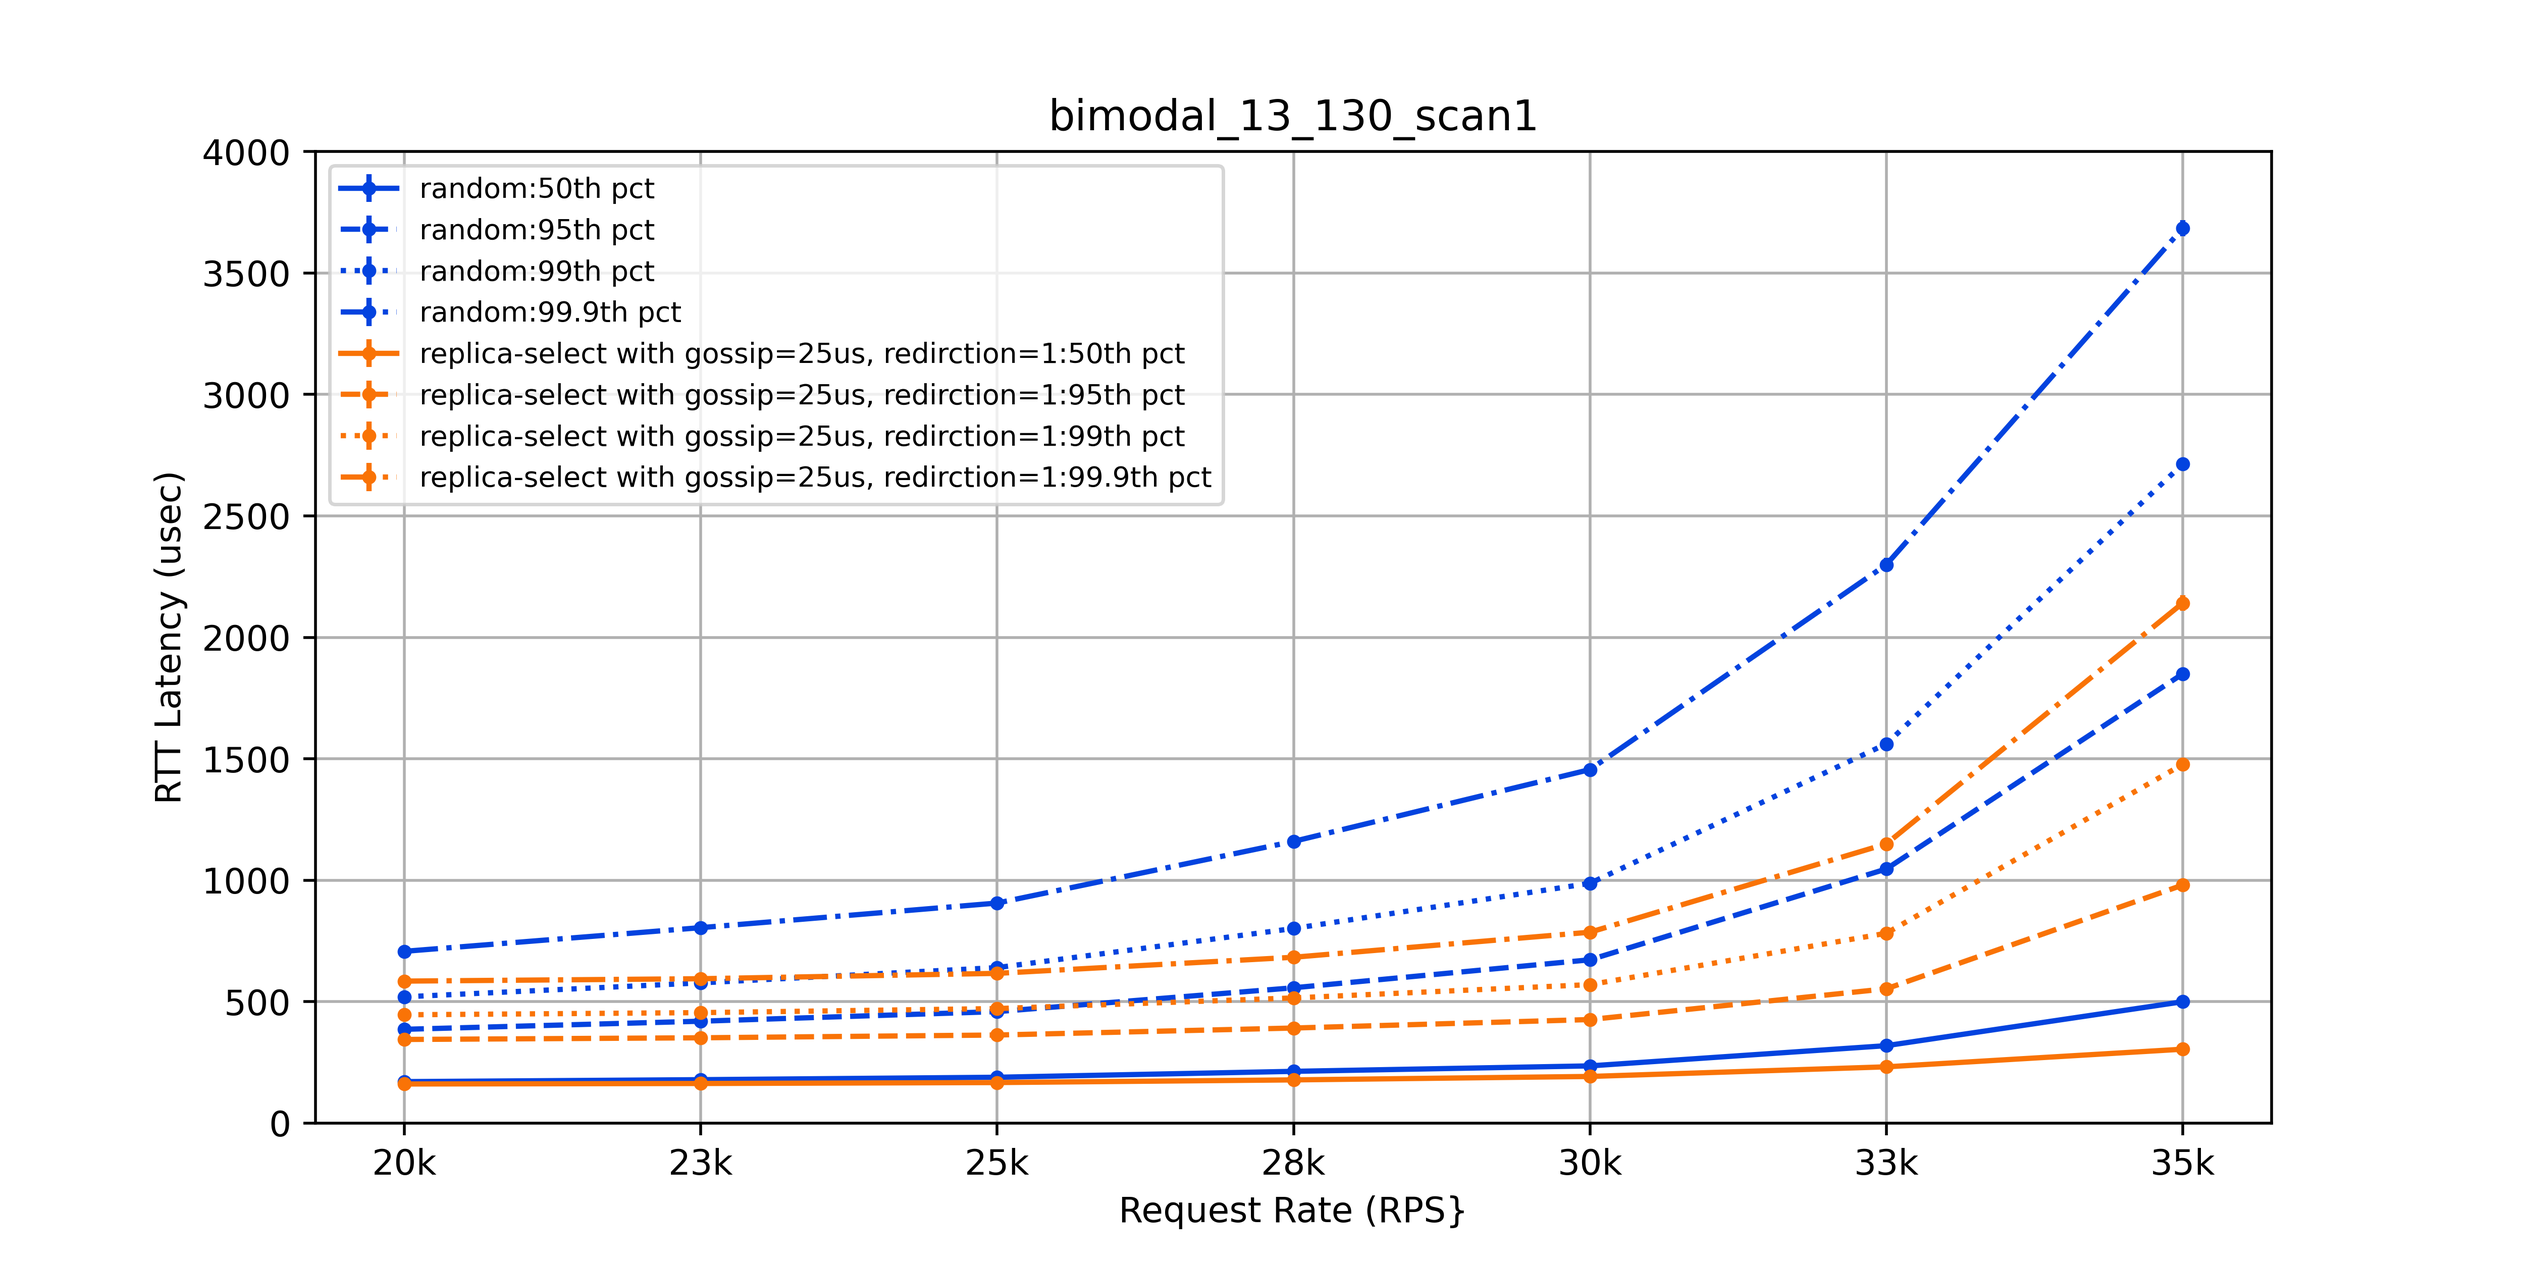
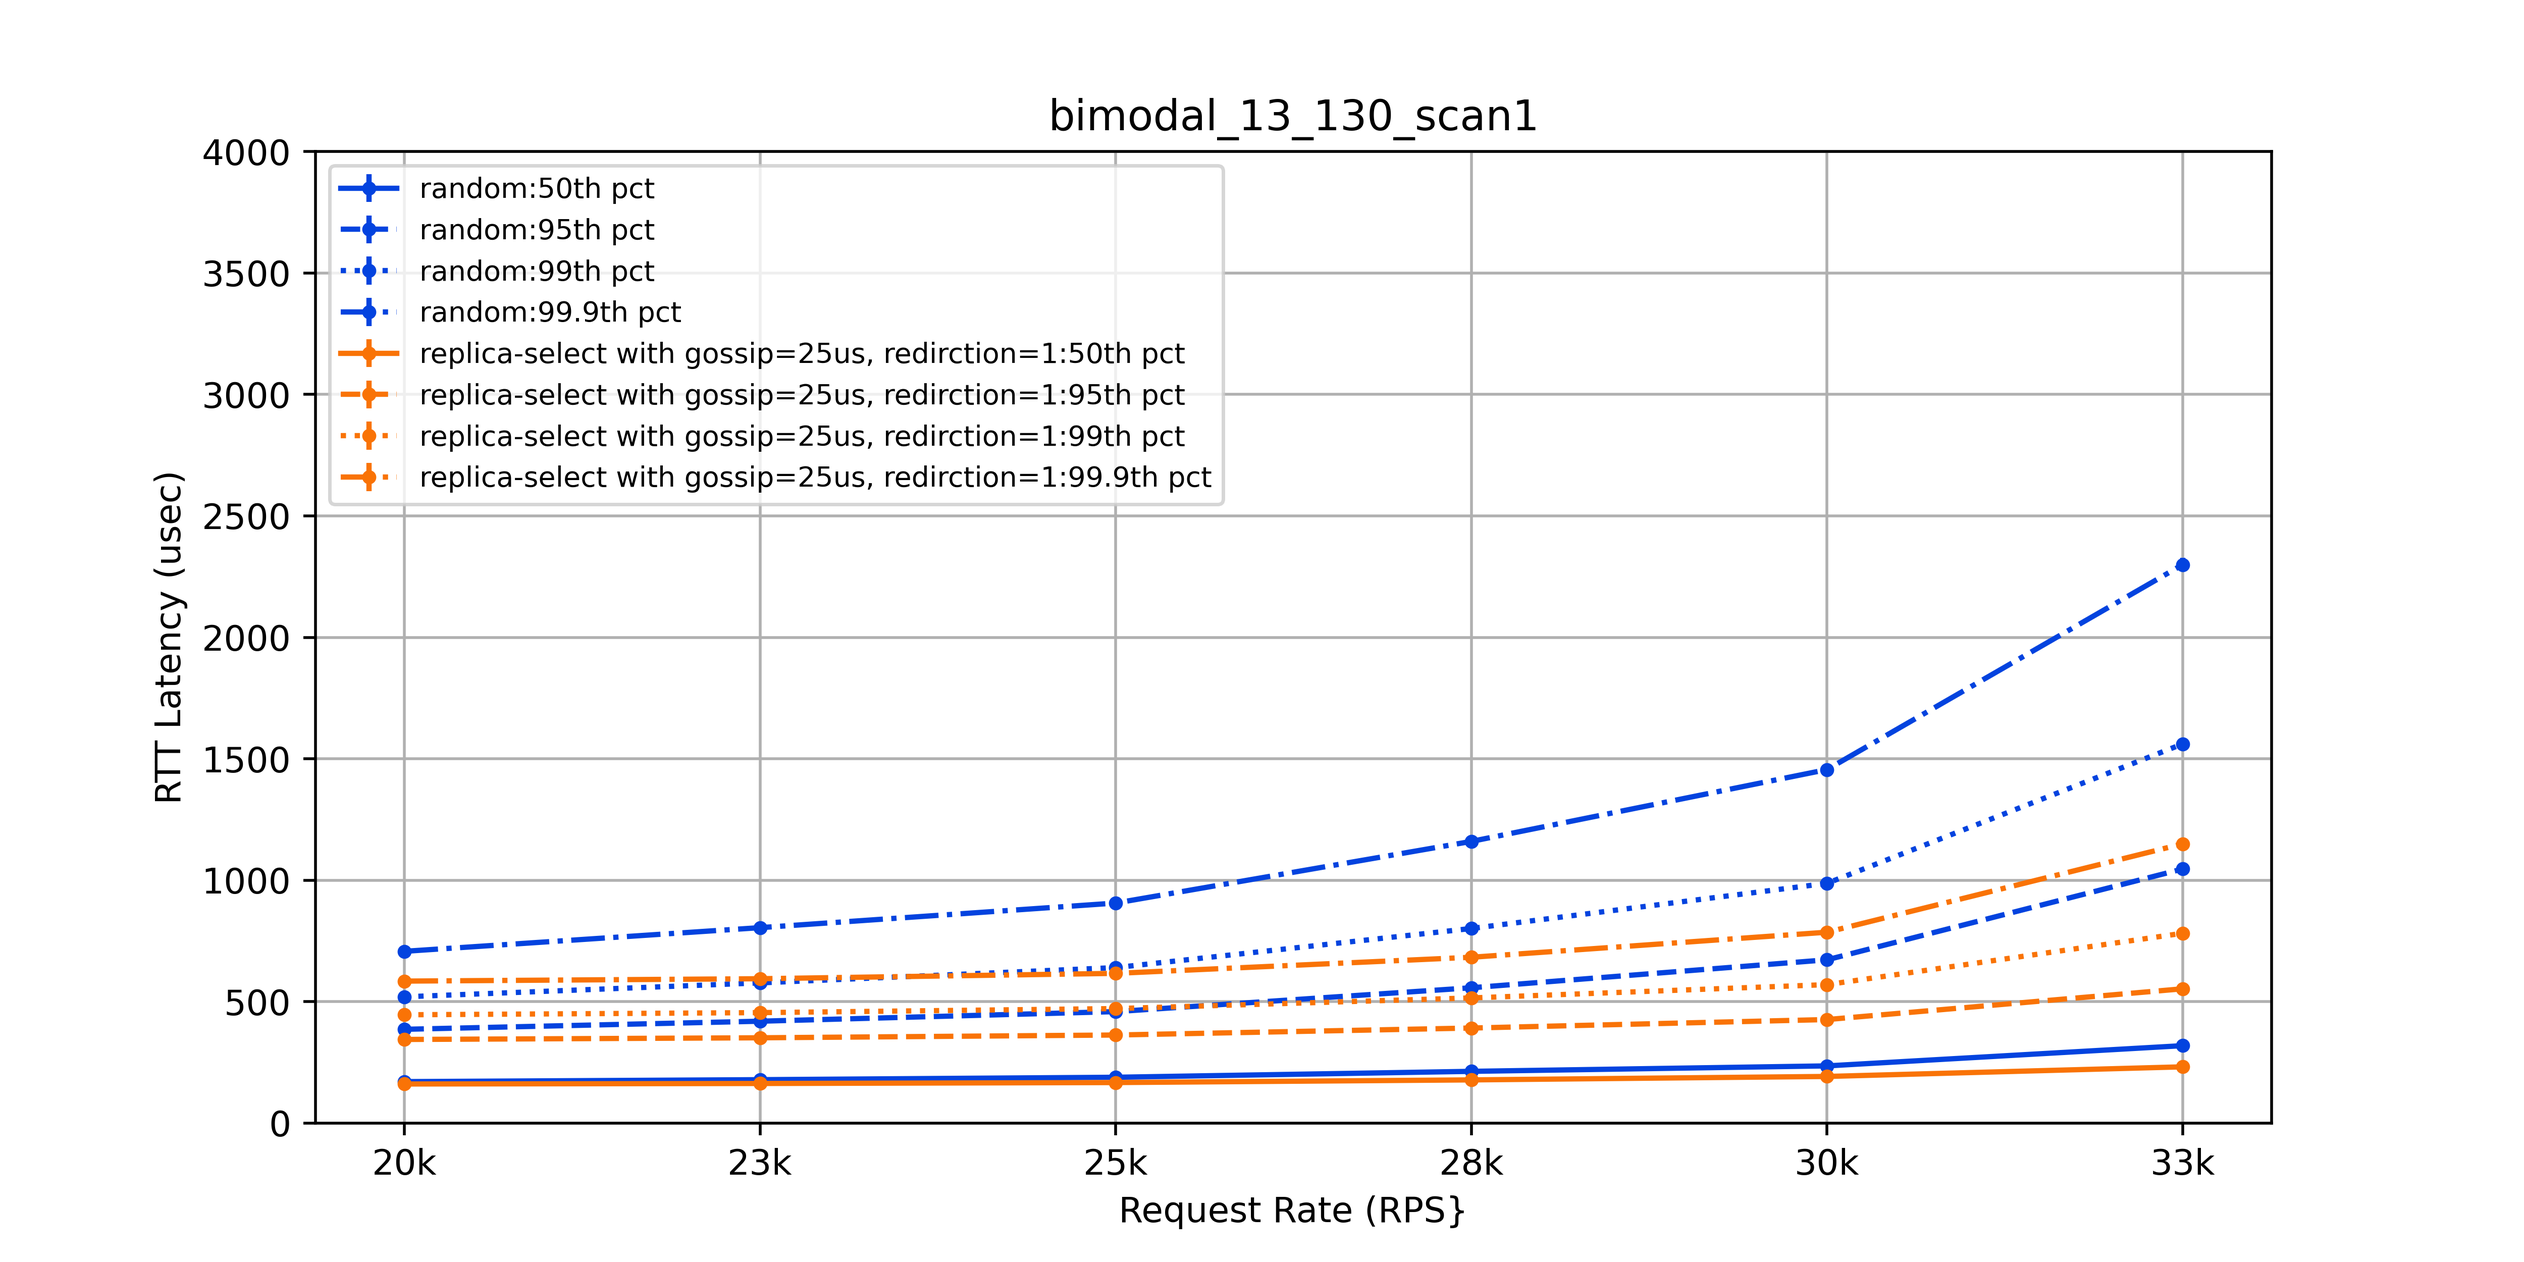
plots and plotting scripts updates

diff --git a/plotting/plot_rates_multirun.py b/plotting/plot_rates_multirun.py
@@ -28,9 +28,15 @@ for root, subdirs, files in os.walk(working_dir):
 
 #rate = title_filter1
 client_tick = ["c0", "c1" , "c2"]
-method_tick  = [title_filter2+"_randonly", title_filter2+"_randselect"]
-method_array = ["random", "replica-select with gossip=25us, redirction=1"]
-run_tick=["0", "1", "2", "3", "4", "5", "6", "7", "8", "9"]
+#method_tick  = [title_filter2+"_randonly", title_filter2+"_randselect"]
+#method_array = ["random", "replica-select with gossip=25us, redirction=1"]
+
+method_tick  = [title_filter2+"_randonly"]
+method_array = ["random"]
+#method_array = ["replica-select with gossip=25us, redirction=1"]
+
+run_tick=["0", "2", "3", "4", "5", "6", "7", "9"]
+#run_tick=["0", "1", "2"]
 
 #method_array = ["random", "replica-select min load delta=1"]
 #method_tick  = ["qd_random", "delta2_randselect", "delta3_randselect", "delta4_randselect"]
@@ -41,8 +47,11 @@ run_tick=["0", "1", "2", "3", "4", "5", "6", "7", "8", "9"]
 
 # rate_tick =[ "10k", "15k", "20k", "25k", "30k", "35k"]
 # rate_array =[ "10000", "15000", "20000", "25000", "30000", "35000"]
-rate_tick =[ "20k", "23k", "25k", "28k", "30k", "33k", "35k"]
+#rate_tick =[ "20k", "23k", "25k", "28k", "30k", "33k"]
+#rate_tick =[ "20k", "23k", "25k", "28k", "30k", "33k"]
+rate_tick =[ "20k", "21k", "22k", "23k", "24k", "25k", "26k", "27k", "28k", "29k", "30k", "31k", "32k", "33k", "34k", "35k"]
 #rate_tick =[ "30k", "35k", "40k", "45k", "50k", "55k"]
+#rate_tick =[ "30k", "33k"]
 
 # rate_array =[ "20000", "25000", "30000"]
 
@@ -93,20 +102,29 @@ for method in method_tick:
             filename_prefix = method_tick[method_index] + "_run" + run
             print(filename_prefix)
 
-            filename0 = parent_dir + working_dir + "/"+ filename_prefix + "_"+ client_tick[0] + "_" + rate + "." + extension
-            filename1 = parent_dir + working_dir + "/"+ filename_prefix + "_"+ client_tick[1] + "_" + rate + "." + extension
-            filename2 = parent_dir + working_dir + "/"+ filename_prefix + "_"+ client_tick[2] + "_" + rate + "." + extension
+            if rate == "35k" and run == "9":
+                filename0 = parent_dir + working_dir + "/"+ filename_prefix + "_"+ client_tick[0] + "_" + rate + "." + extension
+                filename1 = parent_dir + working_dir + "/"+ filename_prefix + "_"+ client_tick[1] + "_" + rate + "." + extension
+                filename2 = parent_dir + working_dir + "/"+ filename_prefix + "_"+ client_tick[2] + "_" + rate + "." + extension
+                data0 = pd.read_csv(filename0, delimiter = ",", usecols=[1]).values
+                data2 = pd.read_csv(filename2, delimiter = ",", usecols=[1]).values
+                data = np.concatenate([data0, data1, data2])
 
-            ## normal cases
-            ## column 0, column 1, column 2
-            ## number of redirections, end-to-end latency, server processing latency
-            data0 = pd.read_csv(filename0, delimiter = ",", usecols=[1]).values
-            data1 = pd.read_csv(filename1, delimiter = ",", usecols=[1]).values
-            data2 = pd.read_csv(filename2, delimiter = ",", usecols=[1]).values
-            data0 = data0[10:]
-            data1 = data1[10:]
-            data2 = data2[10:]
-            data = np.concatenate([data0, data1, data2])
+            else:
+                filename0 = parent_dir + working_dir + "/"+ filename_prefix + "_"+ client_tick[0] + "_" + rate + "." + extension
+                filename1 = parent_dir + working_dir + "/"+ filename_prefix + "_"+ client_tick[1] + "_" + rate + "." + extension
+                filename2 = parent_dir + working_dir + "/"+ filename_prefix + "_"+ client_tick[2] + "_" + rate + "." + extension
+
+                ## normal cases
+                ## column 0, column 1, column 2
+                ## number of redirections, end-to-end latency, server processing latency
+                data0 = pd.read_csv(filename0, delimiter = ",", usecols=[1]).values
+                data1 = pd.read_csv(filename1, delimiter = ",", usecols=[1]).values
+                data2 = pd.read_csv(filename2, delimiter = ",", usecols=[1]).values
+                data0 = data0[10:]
+                data1 = data1[10:]
+                data2 = data2[10:]
+                data = np.concatenate([data0, data1, data2])
 
             # for server latency
             #data = data[data > 25*1000]
@@ -163,30 +181,54 @@ for method in method_tick:
         
         rate_index = rate_index + 1 
 
+    print("[", end =" ")
     for i in range(0,len(mean_per_delta_mean_array)):
-        print(mean_per_delta_mean_array[i], end=" ")
-    print("\n-----------------------")
+        print(mean_per_delta_mean_array[i], end=",")
+    print("]\n")
+
+    print("[", end =" ")
+    for i in range(0,len(mean_per_delta_sem_array)):
+        print(mean_per_delta_sem_array[i], end =",")
+    print("]\n")
 
     ax.errorbar(rate_tick, mean_per_delta_mean_array, yerr=mean_per_delta_sem_array,color=color_list[method_index], linestyle='solid',
         label=method_array[method_index]+":50th pct", marker='.', lw=1.5)
 
+    print("[", end =" ")
     for i in range(0,len(pct95th_per_delta_mean_array)):
-        print(pct95th_per_delta_mean_array[i], end =" ")
-    print("\n-----------------------")
+        print(pct95th_per_delta_mean_array[i], end =",")
+    print("]\n")
+
+    print("[", end =" ")
+    for i in range(0,len(pct95th_per_delta_sem_array)):
+        print(pct95th_per_delta_sem_array[i], end =",")
+    print("]\n")
 
     ax.errorbar(rate_tick, pct95th_per_delta_mean_array, yerr=pct95th_per_delta_sem_array ,color=color_list[method_index], linestyle='dashed',
         label=method_array[method_index]+":95th pct", marker='.', lw=1.5)
 
+    print("[", end =" ")
     for i in range(0,len(pct99th_per_delta_mean_array)):
-        print(pct99th_per_delta_mean_array[i], end =" ")
-    print("\n-----------------------")
+        print(pct99th_per_delta_mean_array[i], end =",")
+    print("]\n")
+
+    print("[", end =" ")
+    for i in range(0,len(pct99th_per_delta_sem_array)):
+        print(pct99th_per_delta_sem_array[i], end =",")
+    print("]\n")
 
     ax.errorbar(rate_tick, pct99th_per_delta_mean_array, yerr=pct99th_per_delta_sem_array ,color=color_list[method_index], linestyle='dotted',
         label=method_array[method_index]+":99th pct", marker='.', lw=1.5)
 
+    print("[", end =" ")
     for i in range(0,len(pct99th9_per_delta_mean_array)):
-        print(pct99th9_per_delta_mean_array[i], end =" ")
-    print("\n-----------------------")
+        print(pct99th9_per_delta_mean_array[i], end =",")
+    print("]\n")
+
+    print("[", end =" ")
+    for i in range(0,len(pct99th9_per_delta_sem_array)):
+        print(pct99th9_per_delta_sem_array[i], end =",")
+    print("]\n")
 
     ax.errorbar(rate_tick, pct99th9_per_delta_mean_array, yerr=pct99th9_per_delta_sem_array ,color=color_list[method_index], linestyle='dashdot',
         label=method_array[method_index]+":99.9th pct", marker='.', lw=1.5)

diff --git a/plotting/plot_gossip_multirun.py b/plotting/plot_gossip_multirun.py
@@ -33,10 +33,10 @@ method_array = ["replica-select with gossip=25us, redirction=1"]
 #delta_tick=["0", "1", "2", "3", "4", "5", "6", "7", "8", "9", "10"]
 #delta_tick=["0", "1", "2", "3", "4"]
 gossip_tick=["25", "50", "100", "200", "400", "800"]
-run_tick=["0", "1", "2", "3", "4", "5", "6", "7", "8", "9", 
-"10", "11", "12", "13", "14", "15", "16", "17", "18", "19",
-"20", "21", "22", "23", "24"]
-#run_tick=["0", "1", "2", "3", "4", "5", "6", "7", "8", "9"]
+# run_tick=["0", "1", "2", "3", "4", "5", "6", "7", "8", "9", 
+# "10", "11", "12", "13", "14", "15", "16", "17", "18", "19",
+# "20", "21", "22", "23", "24"]
+run_tick=["0", "1", "2", "3", "4", "5", "6", "7", "8", "9"]
 
 
 #method_array = ["random", "replica-select min load delta=1"]
@@ -154,8 +154,9 @@ for gossip in gossip_tick:
 
     mean_mean     = np.percentile(mean_array, 50)
     pct95th_mean  = np.percentile(pct95th_array, 50)
-    pct99th_mean  = np.percentile(pct99th_array, 50)
-    pct99th9_mean = np.percentile(pct99th9_array, 50)
+    # for 35k chose 75th
+    pct99th_mean  = np.percentile(pct99th_array, 75)
+    pct99th9_mean = np.percentile(pct99th9_array, 75)
 
     mean_per_delta_mean_array[gossip_index] = mean_mean
     mean_per_delta_sem_array[gossip_index]  = mean_sem
@@ -172,30 +173,54 @@ for gossip in gossip_tick:
     gossip_index = gossip_index + 1 
 
 
+print("[", end =" ")
 for i in range(0,len(mean_per_delta_mean_array)):
-    print(mean_per_delta_mean_array[i], end =" ")
-print("\n-----------------------")
+    print(mean_per_delta_mean_array[i], end =",")
+print("]\n")
+
+print("[", end =" ")
+for i in range(0,len(mean_per_delta_sem_array)):
+    print(mean_per_delta_sem_array[i], end =",")
+print("]\n")
 
 ax.errorbar(gossip_tick, mean_per_delta_mean_array, yerr=mean_per_delta_sem_array,color=color_list[method_index], linestyle='solid',
     label=method_array[method_index]+":50th pct", marker='.', lw=1.5)
 
+print("[", end =" ")
 for i in range(0,len(pct95th_per_delta_mean_array)):
-    print(pct95th_per_delta_mean_array[i], end =" ")
-print("\n-----------------------")
+    print(pct95th_per_delta_mean_array[i], end =",")
+print("]\n")
+
+print("[", end =" ")
+for i in range(0,len(pct95th_per_delta_sem_array)):
+    print(pct95th_per_delta_sem_array[i], end =",")
+print("]\n")
 
 ax.errorbar(gossip_tick, pct95th_per_delta_mean_array, yerr=pct95th_per_delta_sem_array ,color=color_list[method_index], linestyle='dashed',
     label=method_array[method_index]+":95th pct", marker='.', lw=1.5)
 
+print("[", end =" ")
 for i in range(0,len(pct99th_per_delta_mean_array)):
-    print(pct99th_per_delta_mean_array[i], end =" ")
-print("\n-----------------------")
+    print(pct99th_per_delta_mean_array[i], end =",")
+print("]\n")
+
+print("[", end =" ")
+for i in range(0,len(pct99th_per_delta_sem_array)):
+    print(pct99th_per_delta_sem_array[i], end =",")
+print("]\n")
 
 ax.errorbar(gossip_tick, pct99th_per_delta_mean_array, yerr=pct99th_per_delta_sem_array ,color=color_list[method_index], linestyle='dotted',
     label=method_array[method_index]+":99th pct", marker='.', lw=1.5)
 
+print("[", end =" ")
 for i in range(0,len(pct99th9_per_delta_mean_array)):
-    print(pct99th9_per_delta_mean_array[i], end =" ")
-print("\n-----------------------")
+    print(pct99th9_per_delta_mean_array[i], end =",")
+print("]\n")
+
+print("[", end =" ")
+for i in range(0,len(pct99th9_per_delta_sem_array)):
+    print(pct99th9_per_delta_sem_array[i], end =" ")
+print("]\n")
 
 ax.errorbar(gossip_tick, pct99th9_per_delta_mean_array, yerr=pct99th9_per_delta_sem_array ,color=color_list[method_index], linestyle='dashdot',
     label=method_array[method_index]+":99.9th pct", marker='.', lw=1.5)

diff --git a/plotting/plot_delta_multirun.py b/plotting/plot_delta_multirun.py
@@ -169,31 +169,54 @@ for delta in delta_tick:
     
     delat_index = delat_index + 1 
 
-
+print("[", end =" ")
 for i in range(0,len(mean_per_delta_mean_array)):
-    print(mean_per_delta_mean_array[i], end =" ")
-print("\n-----------------------")
+    print(mean_per_delta_mean_array[i], end =",")
+print("]")
+
+print("[", end =" ")
+for i in range(0,len(mean_per_delta_sem_array)):
+    print(mean_per_delta_sem_array[i], end =",")
+print("]")
 
 ax.errorbar(delta_tick, mean_per_delta_mean_array, yerr=mean_per_delta_sem_array,color=color_list[method_index], linestyle='solid',
     label=method_array[method_index]+":50th pct", marker='.', lw=1.5)
 
+print("[", end =" ")
 for i in range(0,len(pct95th_per_delta_mean_array)):
-    print(pct95th_per_delta_mean_array[i], end =" ")
-print("\n-----------------------")
+    print(pct95th_per_delta_mean_array[i], end =",")
+print("]")
+
+print("[", end =" ")
+for i in range(0,len(pct95th_per_delta_sem_array)):
+    print(pct95th_per_delta_sem_array[i], end =",")
+print("]")
 
 ax.errorbar(delta_tick, pct95th_per_delta_mean_array, yerr=pct95th_per_delta_sem_array ,color=color_list[method_index], linestyle='dashed',
     label=method_array[method_index]+":95th pct", marker='.', lw=1.5)
 
+print("[", end =" ")
 for i in range(0,len(pct99th_per_delta_mean_array)):
-    print(pct99th_per_delta_mean_array[i], end =" ")
-print("\n-----------------------")
+    print(pct99th_per_delta_mean_array[i], end =",")
+print("]")
+
+print("[", end =" ")
+for i in range(0,len(pct99th_per_delta_sem_array)):
+    print(pct99th_per_delta_sem_array[i], end =",")
+print("]")
 
 ax.errorbar(delta_tick, pct99th_per_delta_mean_array, yerr=pct99th_per_delta_sem_array ,color=color_list[method_index], linestyle='dotted',
     label=method_array[method_index]+":99th pct", marker='.', lw=1.5)
 
+print("[", end =" ")
 for i in range(0,len(pct99th9_per_delta_mean_array)):
-    print(pct99th9_per_delta_mean_array[i], end =" ")
-print("\n-----------------------")
+    print(pct99th9_per_delta_mean_array[i], end =",")
+print("]")
+
+print("[", end =" ")
+for i in range(0,len(pct99th9_per_delta_sem_array)):
+    print(pct99th9_per_delta_sem_array[i], end =",")
+print("]")
 
 ax.errorbar(delta_tick, pct99th9_per_delta_mean_array, yerr=pct99th9_per_delta_sem_array ,color=color_list[method_index], linestyle='dashdot',
     label=method_array[method_index]+":99.9th pct", marker='.', lw=1.5)

diff --git a/plotting/cal_pgy_ratio.py b/plotting/cal_pgy_ratio.py
@@ -1,0 +1,37 @@
+import numpy as np
+import pandas as pd
+print("request rate: 30kRPS")
+print("switch-0")
+data = pd.read_csv("../log/feb22_piggy_exp_mean25us/piggy_exp_mean25us_randonly_run0_s0_30k.pgy", delimiter = ",", usecols=[0]).values
+ratios = np.zeros(5)
+for i in range(0,5):
+    ratios[i] = (float) (np.count_nonzero(data==i+1))/data.shape[0]
+    print("req per update:"+str(i)+",ratio:"+str(ratios[i]))
+
+print("switch-1")
+data = pd.read_csv("../log/feb22_piggy_exp_mean25us/piggy_exp_mean25us_randonly_run0_s1_30k.pgy", delimiter = ",", usecols=[0]).values
+ratios = np.zeros(5)
+for i in range(0,5):
+    ratios[i] = (float) (np.count_nonzero(data==i+1))/data.shape[0]
+    print("req per update:"+str(i)+",ratio:"+str(ratios[i]))
+
+print("switch-2")
+data = pd.read_csv("../log/feb22_piggy_exp_mean25us/piggy_exp_mean25us_randonly_run0_s2_30k.pgy", delimiter = ",", usecols=[0]).values
+ratios = np.zeros(5)
+for i in range(0,5):
+    ratios[i] = (float) (np.count_nonzero(data==i+1))/data.shape[0]
+    print("req per update:"+str(i)+",ratio:"+str(ratios[i]))
+
+# print("request rate: 35kRPS")
+# data = pd.read_csv("../log/test_piggy35k_s0.pgy", delimiter = ",", usecols=[0]).values
+# ratios = np.zeros(5)
+# for i in range(0,5):
+#     ratios[i] = (float) (np.count_nonzero(data==i+1))/data.shape[0]
+#     print("req per update:"+str(i)+",ratio:"+str(ratios[i]))
+
+# print("request rate: 30kRPS with exp dist")
+# data = pd.read_csv("../log/test_piggy_exp_30k_s0.pgy", delimiter = ",", usecols=[0]).values
+# ratios = np.zeros(5)
+# for i in range(0,5):
+#     ratios[i] = (float) (np.count_nonzero(data==i+1))/data.shape[0]
+#     print("req per update:"+str(i)+",ratio:"+str(ratios[i]))
